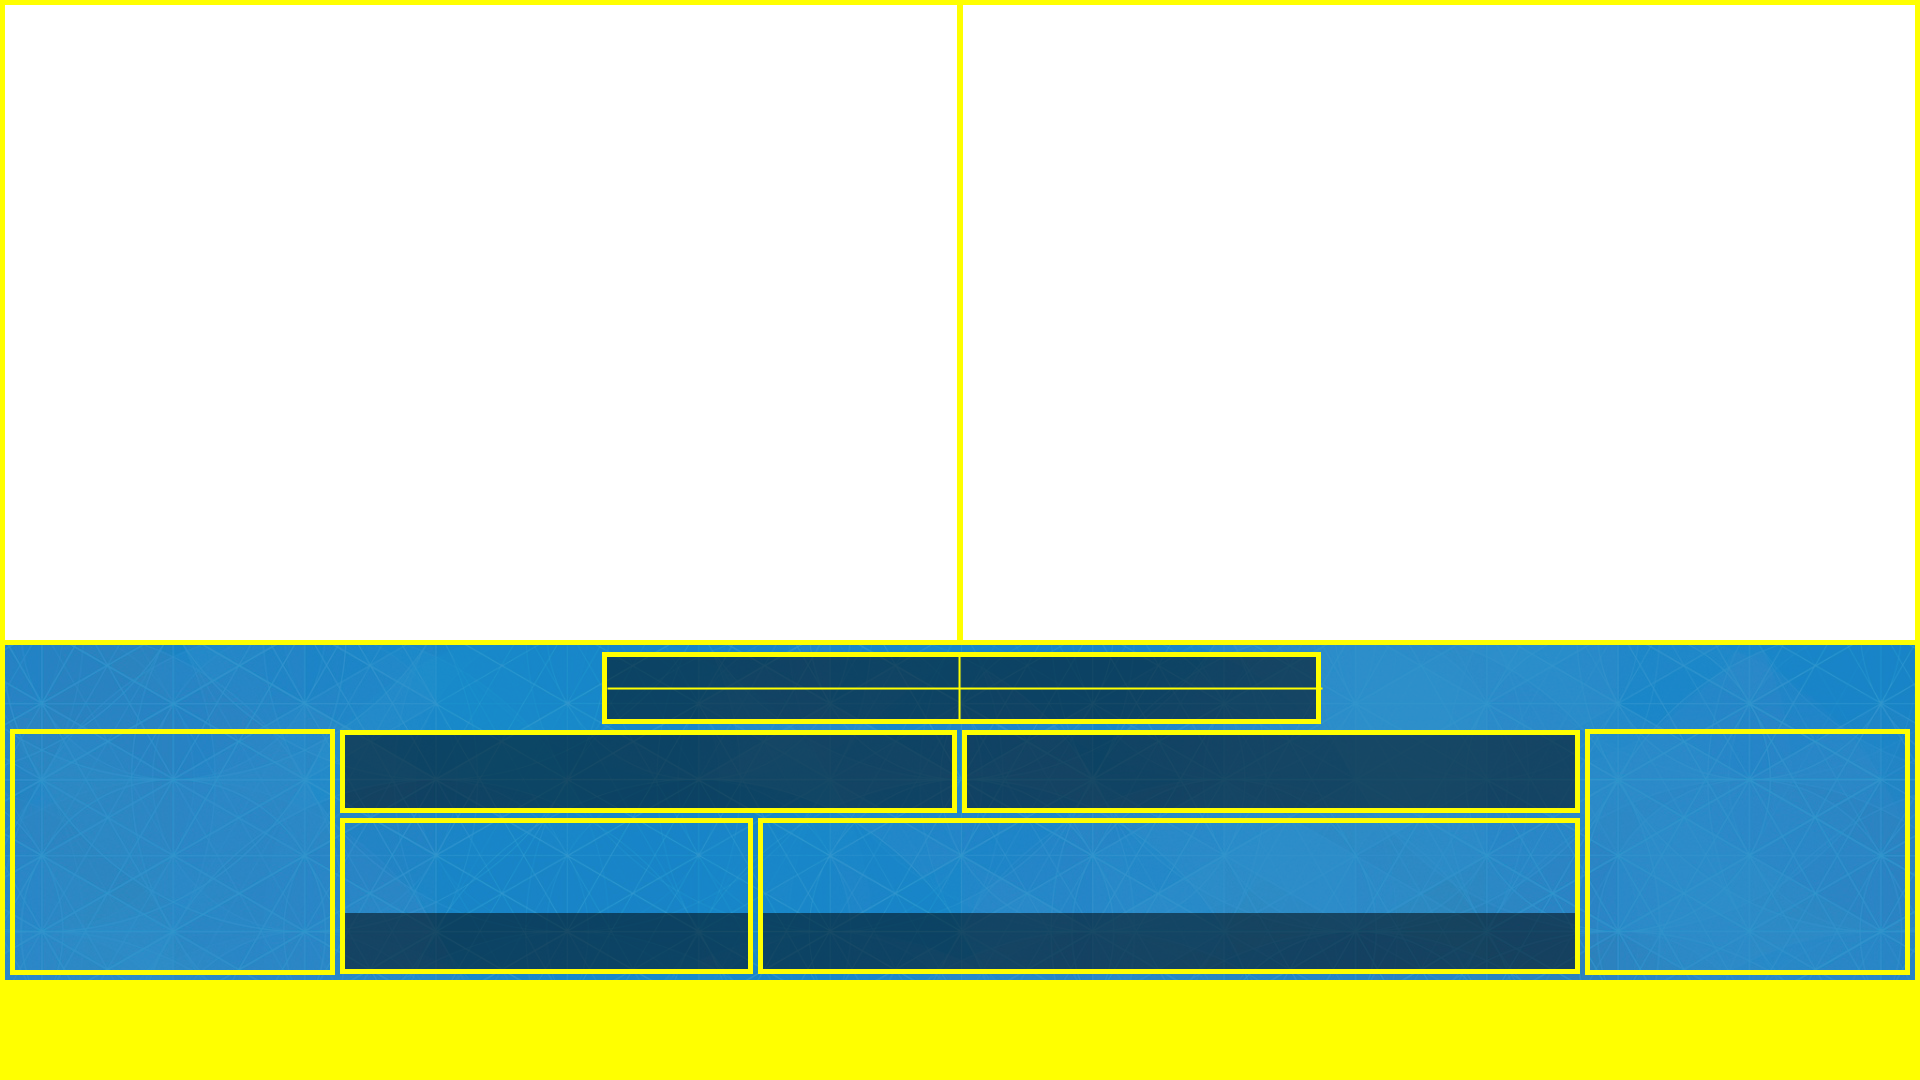
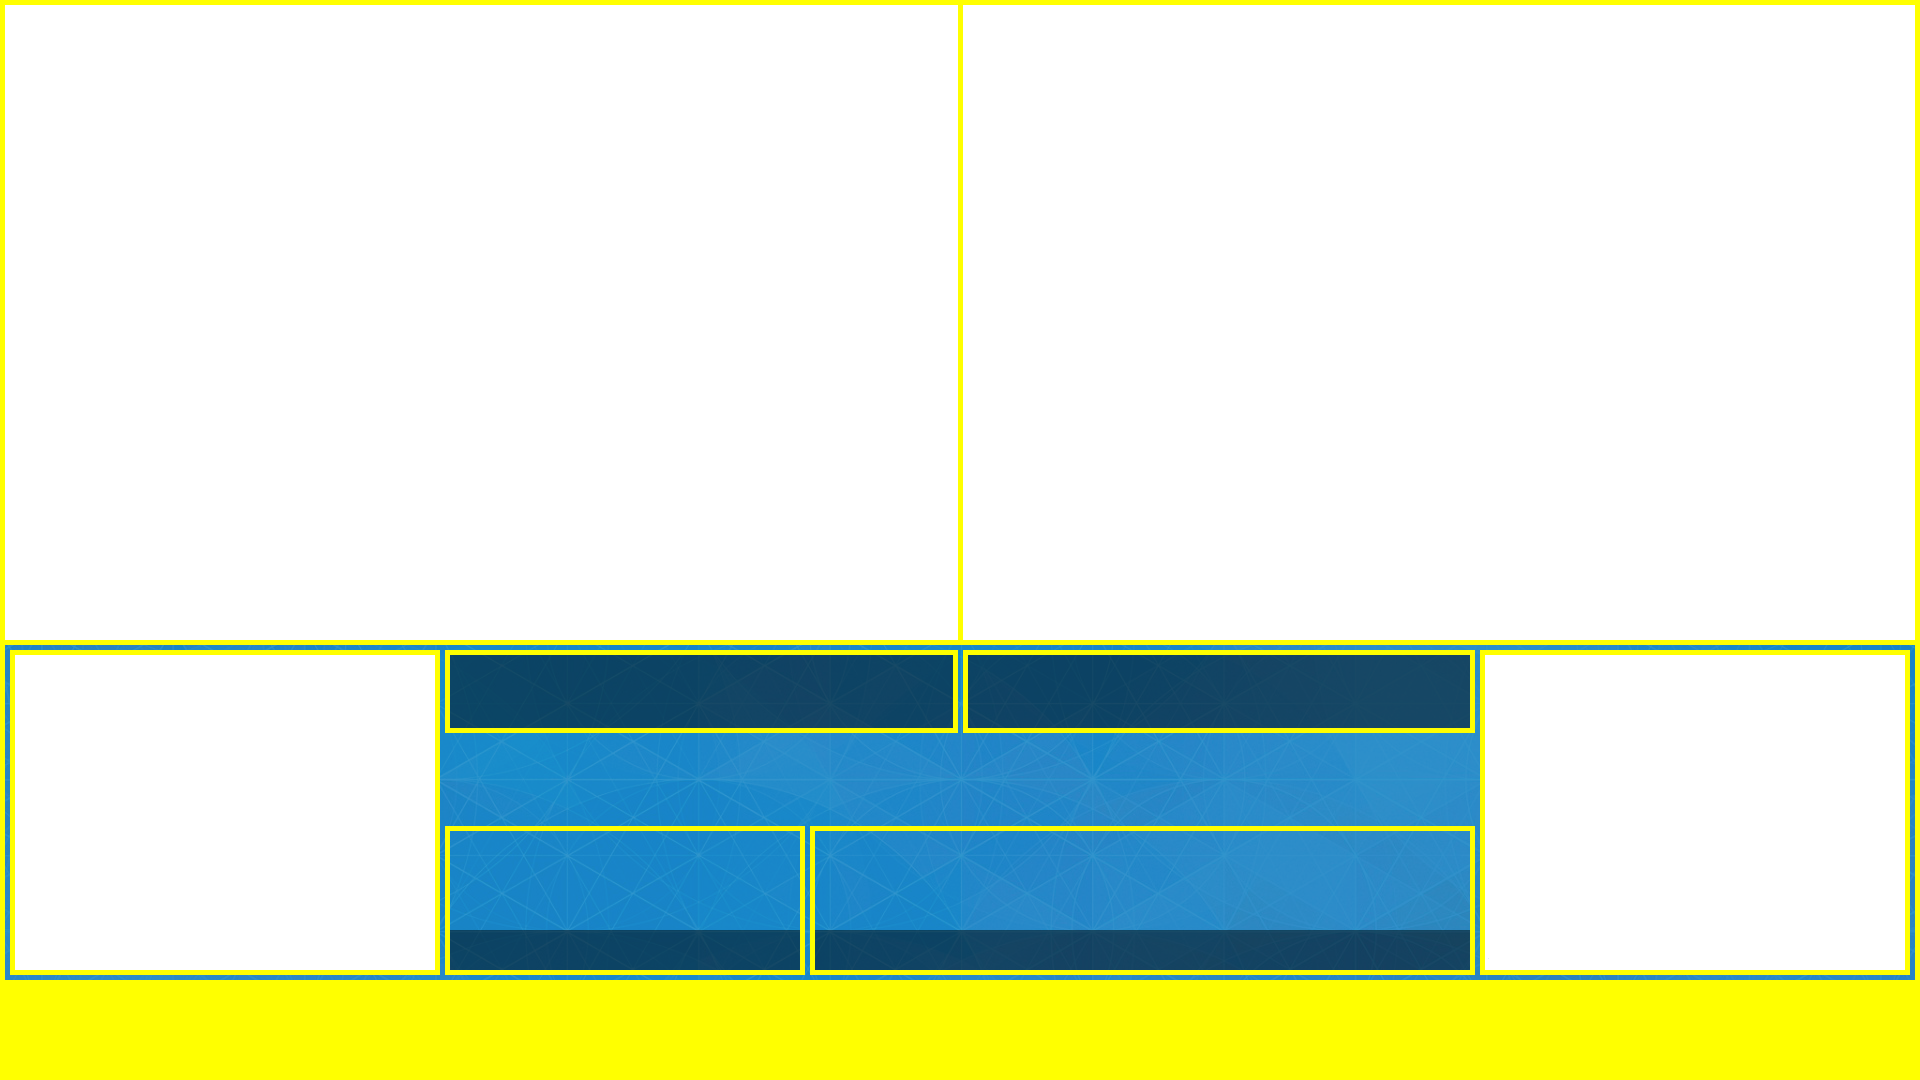
GBA 2p marathon ready

Changed region(s): [[0.0, 0.5806, 1.0, 0.9167]]

diff --git a/graphics/css/GBA_2p.css b/graphics/css/GBA_2p.css
@@ -1,8 +1,8 @@
 /* Runner and pronouns panel. */
-.runner-container {
-	width: 827px;
-	height: 80px;
-	line-height: 80px;
+.runner-container, .comms-container {
+	width: 483px;
+	height: 74px;
+	line-height: 74px;
 	
 	padding-left: 10px;
 	padding-right: 10px;
@@ -16,23 +16,40 @@
 
 /* Player 1 info position. */
 #runner-container1 {
-	left: 536px;
+	left: 450px;
 	top: 654px;
 }
 
 /* Player 2 info position. */
 #runner-container2 {
-	left: 536px;
-	top: 748px;
+	left: 968px;
+	top: 654px;
+}
+
+/* Commentator name and pronouns panel. */
+.comms-pronouns {
+	font-size: 20pt;
+}
+
+/* Comms 1 info position. */
+#comms-container1 {
+	left: 450px;
+	top: 741px;
+}
+
+/* Comms 2 info position. */
+#comms-container2 {
+	left: 968px;
+	top: 741px;
 }
 
 /* Game name panel. */
 #game-name {
-	width: 612px;
-	height: 90px;
-	line-height: 90px;
-	left: 836px;
-	top: 844px;
+	width: 635px;
+	height: 100px;
+	line-height: 100px;
+	left: 815px;
+	top: 830px;
 	
 	padding-left: 10px;
 	padding-right: 10px;
@@ -40,11 +57,11 @@
 
 /* Category and estimate panel. */
 #info-container {
-	width: 612px;
+	width: 635px;
 	height: 35px;
 	line-height: 35px;
-	left: 836px;
-	top: 934px;
+	left: 815px;
+	top: 932px;
 	
 	padding-left: 10px;
 	padding-right: 10px;
@@ -52,16 +69,17 @@
 
 /* Timer panel. */
 #timer {
-	width: 370px;
-	height: 90px;
-	line-height: 90px;
-	left: 451px;
-	top: 844px;
+	width: 350px;
+	height: 100px;
+	line-height: 100px;
+	left: 450px;
+	top: 830px;
+	font-size: 50pt;
 }
 
 /* Estimate panel. */
 #estimate-container {
 	position: absolute;
-	left: 451px;
-	top: 934px;
+	left: 450px;
+	top: 931px;
 }

diff --git a/graphics/GBA_2p.html b/graphics/GBA_2p.html
@@ -37,6 +37,15 @@
          <div class="finalTime" id="finalTime2"></div>
          <div class="pronouns" id="pronouns2"></div>
       </div>
+
+      <div class="comms-container" id="comms-container1">
+         <div class="comms-name" id="commentator1Name"></div>
+         <div class="comms-pronouns" id="commentator1Pronouns"></div>
+      </div>
+      <div class="comms-container" id="comms-container2">
+         <div class="comms-name" id="commentator2Name"></div>
+         <div class="comms-pronouns" id="commentator2Pronouns"></div>
+      </div>
 	  
       <!-- Game details -->
       <div id="game-name"></div>
